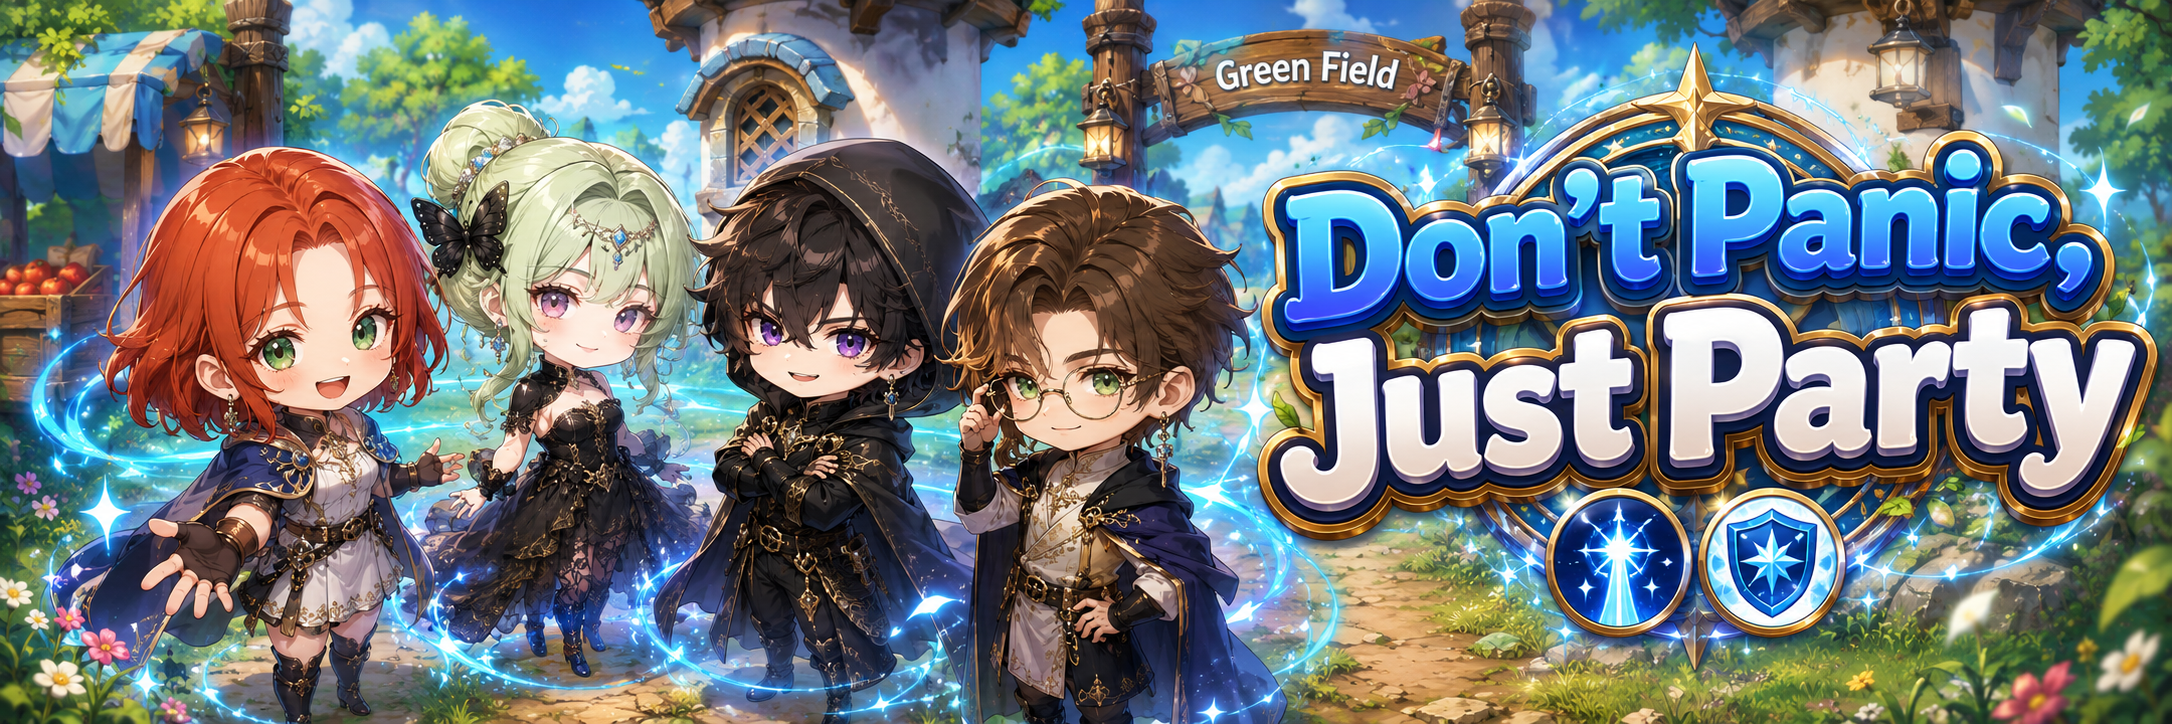
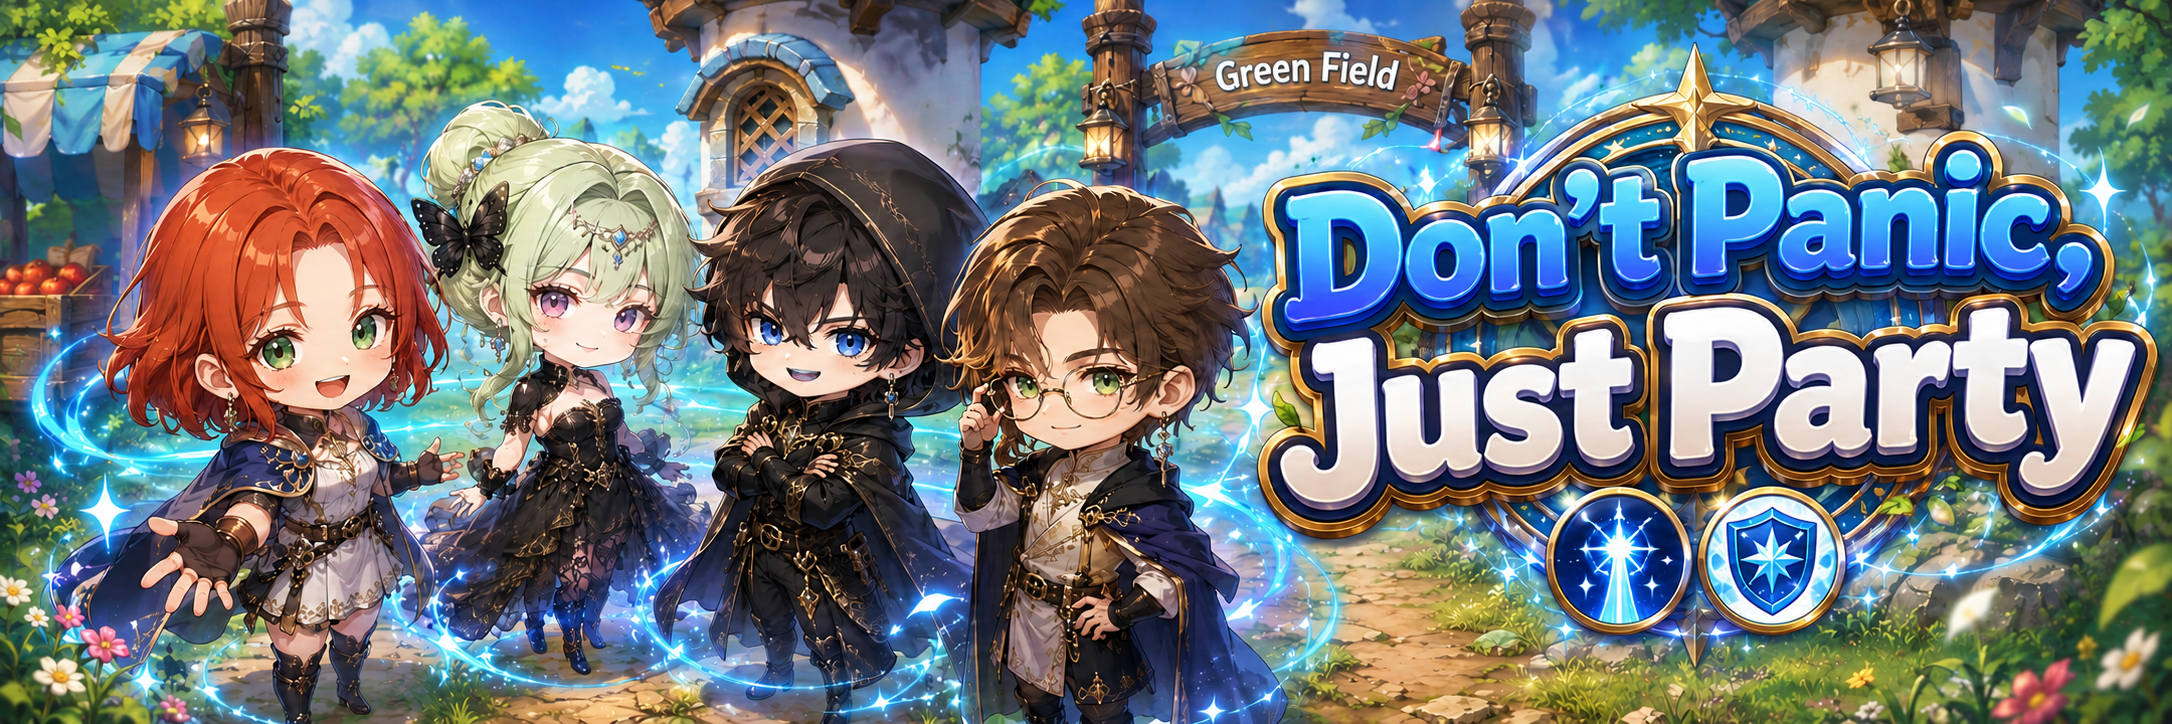
GITBOOK-852: No subject

diff --git a/contents/achievement.md b/contents/achievement.md
@@ -4,7 +4,7 @@ description: 🛑 Information on this page may differ from the current in-game d
 
 # 🥇 Achievement
 
-<figure><img src="../.gitbook/assets/achievement.png" alt=""><figcaption></figcaption></figure>
+<figure><img src="../.gitbook/assets/achiev.png" alt=""><figcaption></figcaption></figure>
 
 {% tabs %}
 {% tab title="ENG" %}

diff --git a/contents/explorers-diary.md b/contents/explorers-diary.md
@@ -4,7 +4,7 @@ description: 🛑 Information on this page may differ from the current in-game d
 
 # 📓 Explorer's Diary
 
-<figure><img src="../.gitbook/assets/Icon_Core.png" alt=""><figcaption></figcaption></figure>
+<figure><img src="../.gitbook/assets/diary.png" alt=""><figcaption></figcaption></figure>
 
 {% tabs %}
 {% tab title="ENG" %}

diff --git a/contents/lucky-pass/README.md b/contents/lucky-pass/README.md
@@ -4,7 +4,7 @@ description: 🛑 Information on this page may differ from the current in-game d
 
 # 🍀 Lucky Pass
 
-<figure><img src="../../.gitbook/assets/Icon_LuckyChip.png" alt=""><figcaption></figcaption></figure>
+<figure><img src="../../.gitbook/assets/luckypass.png" alt=""><figcaption></figcaption></figure>
 
 {% tabs %}
 {% tab title="ENG" %}

diff --git a/system/party.md b/system/party.md
@@ -4,7 +4,7 @@ description: 🛑 Information on this page may differ from the current in-game d
 
 # 🧑🤝🧑 Party
 
-<figure><img src="../.gitbook/assets/party.png" alt=""><figcaption></figcaption></figure>
+<figure><img src="../.gitbook/assets/party (1).png" alt=""><figcaption></figcaption></figure>
 
 {% tabs %}
 {% tab title="ENG" %}